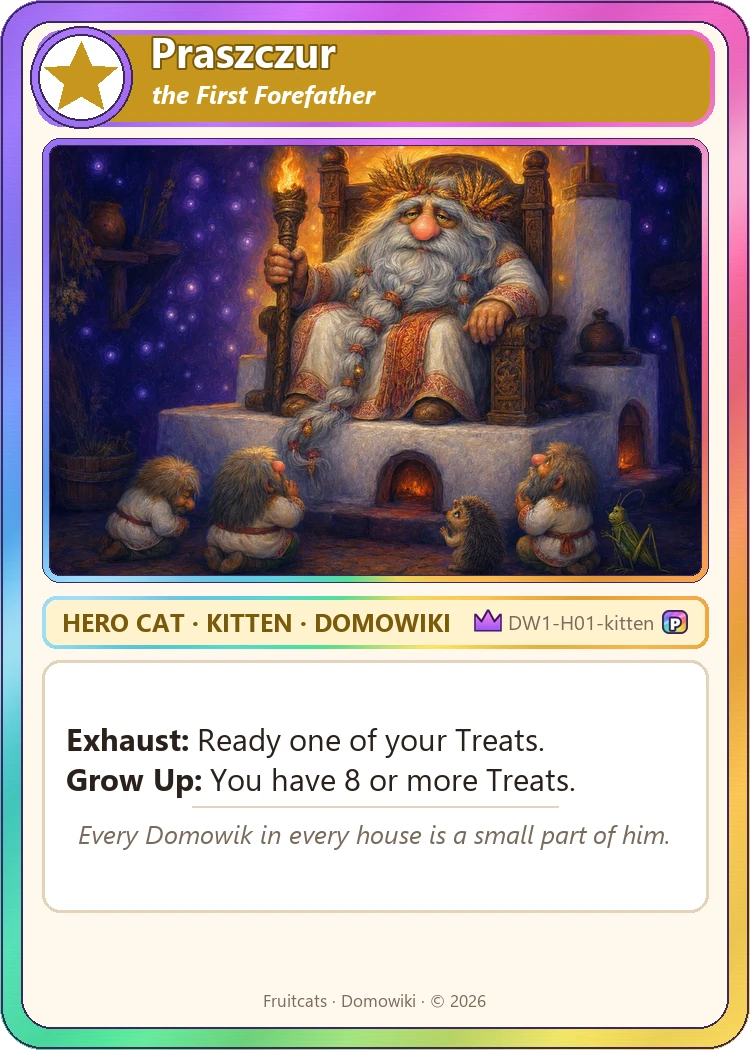
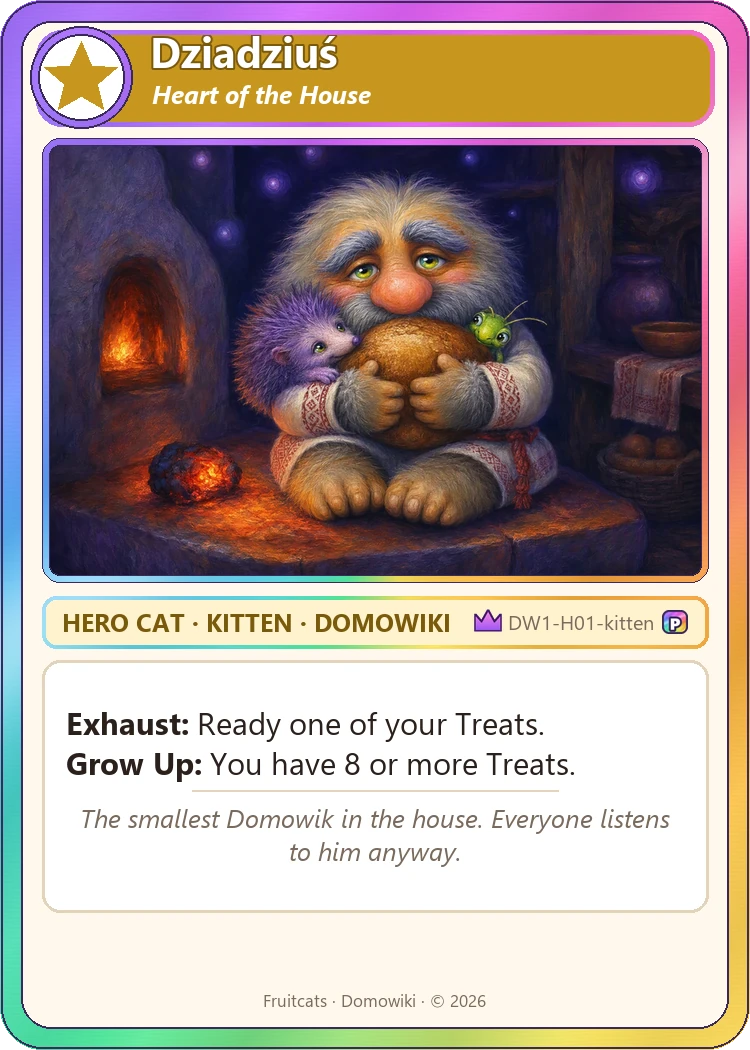
Domowiki: the hero is Dziadziuś, the cutest Domowik, painted like the rest of the deck
The owner found the grand, glowing forefather (Praszczur) looked like a poorly drawn Santa Claus and lost the deck's
charm. The hero is now the cutest Domowik, in the deck's own style. It's still set apart as Legendary with the only
gold frame. Same rules.

diff --git a/docs/domowiki-set.md b/docs/domowiki-set.md
@@ -36,19 +36,17 @@ fantasy: offerings (Treats) now, and the big spirits wake once the house is **We
 - Gameplay that follows the folklore more closely (angry Domowiki, moving house, the warm or cold hand) can come
   later, as the deck is tuned; nothing here needs engine code.
 
-## Hero: Praszczur, the First Forefather (DW1-H01, Legendary)
+## Hero: Dziadziuś, Heart of the House (DW1-H01, Legendary)
 
 | Side | Name | Power | Text |
 |---|---|---|---|
-| Kitten | Praszczur, the First Forefather | – | Exhaust: Ready one of your Treats. Grow Up: You have 8 or more Treats. |
-| Big Cat | Praszczur, Father of All Houses | 4 | Fierce. Exhaust: Ready two of your Treats. |
+| Kitten | Dziadziuś, Heart of the House | – | Exhaust: Ready one of your Treats. Grow Up: You have 8 or more Treats. |
+| Big Cat | Dziadziuś, Master of the House | 4 | Fierce. Exhaust: Ready two of your Treats. |
 
-A deck's hero must read as more exalted than every other card in it (the owner's rule, 2026-09-26). Folklore has no
-king of the Domowiki, but it has something higher: folklorists describe each Domowik as the household's own piece of
-**Rod**, the god of kin and ancestors, and the Polish **praszczur** ("the first forefather") shares its root with
-**Chur**, the ancestor god who guarded the hearth. So the hero is the forefather every Domowik descends from:
-enthroned and crowned with wheat as the Kitten, and as the Big Cat a radiant spirit over a whole village, blessing
-every house's hearth. It is Legendary (the crown mark) and the only card in the deck with a gold frame.
+*Dziadziuś* is the affectionate Polish word for grandpa: families called their house spirit "grandfather". The hero
+is the cutest Domowik of all, painted like the rest of the deck (the owner's call, 2026-09-26: a grand, glowing
+"forefather god" looked like a Santa Claus and lost what makes the deck captivating). What marks him as the leader is
+the card, not a halo: Legendary (the crown mark) and the only gold frame in the deck.
 
 The engine still calls the leader a Hero Cat, with Kitten and Big Cat sides; renaming those is part of the wider
 re-theme (docs/retheme-proposal.md).

diff --git a/content/2026/10/domowiki/art/cards/README.md b/content/2026/10/domowiki/art/cards/README.md
@@ -2,12 +2,12 @@
 
 Generated by `tools/generate_art.py` (art) and `tools/compose_cards.py` (frames and text).
 
-## Praszczur, the First Forefather — the mightiest Hero Cat
+## Dziadziuś, Heart of the House — the mightiest Hero Cat
 
 The only Big Cat with 4 Power and Fierce.
 
 <table>
-<tr><td align="center"><img src="DW1-H01-kitten.webp" width="300" alt="Praszczur, the First Forefather (Kitten)"><br><b>Praszczur, the First Forefather (Kitten)</b><br><sub>DW1-H01-kitten</sub></td><td align="center"><img src="DW1-H01-bigcat.webp" width="300" alt="Praszczur, Father of All Houses (Big Cat)"><br><b>Praszczur, Father of All Houses (Big Cat)</b><br><sub>DW1-H01-bigcat</sub></td></tr>
+<tr><td align="center"><img src="DW1-H01-kitten.webp" width="300" alt="Dziadziuś, Heart of the House (Kitten)"><br><b>Dziadziuś, Heart of the House (Kitten)</b><br><sub>DW1-H01-kitten</sub></td><td align="center"><img src="DW1-H01-bigcat.webp" width="300" alt="Dziadziuś, Master of the House (Big Cat)"><br><b>Dziadziuś, Master of the House (Big Cat)</b><br><sub>DW1-H01-bigcat</sub></td></tr>
 </table>
 
 ## All Hero Cats
@@ -18,7 +18,7 @@ Each Hero Cat starts as a Kitten and Grows Up into a Big Cat. .
 
 </table>
 
-## Domowiki deck (led by Praszczur, the First Forefather)
+## Domowiki deck (led by Dziadziuś, Heart of the House)
 
 <table>
 <tr><td align="center"><img src="DW1-D01.webp" width="180" alt="Stove Keeper"><br><b>Stove Keeper</b><br><sub>DW1-D01 ×3</sub></td><td align="center"><img src="DW1-D02.webp" width="180" alt="Moving-Day Domowik"><br><b>Moving-Day Domowik</b><br><sub>DW1-D02 ×3</sub></td><td align="center"><img src="DW1-D03.webp" width="180" alt="Mane-Braiding Domowik"><br><b>Mane-Braiding Domowik</b><br><sub>DW1-D03 ×3</sub></td><td align="center"><img src="DW1-D04.webp" width="180" alt="Grandfather Domowik"><br><b>Grandfather Domowik</b><br><sub>DW1-D04 ×3</sub></td></tr>
